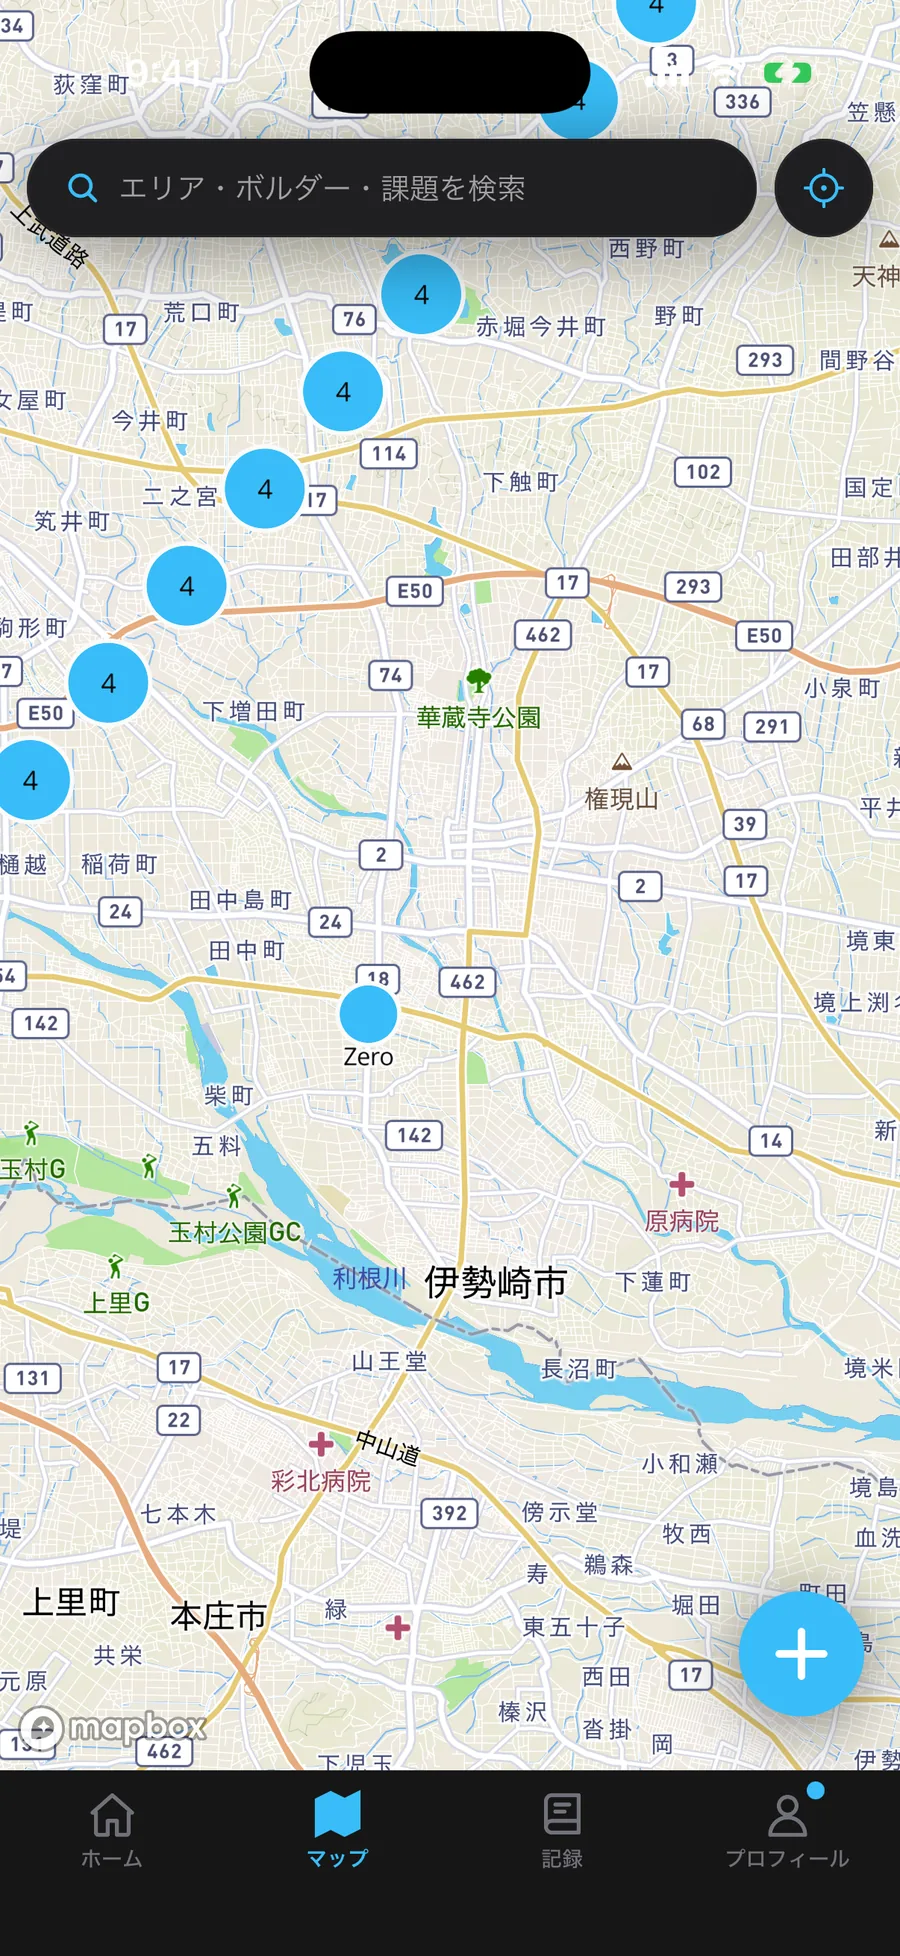
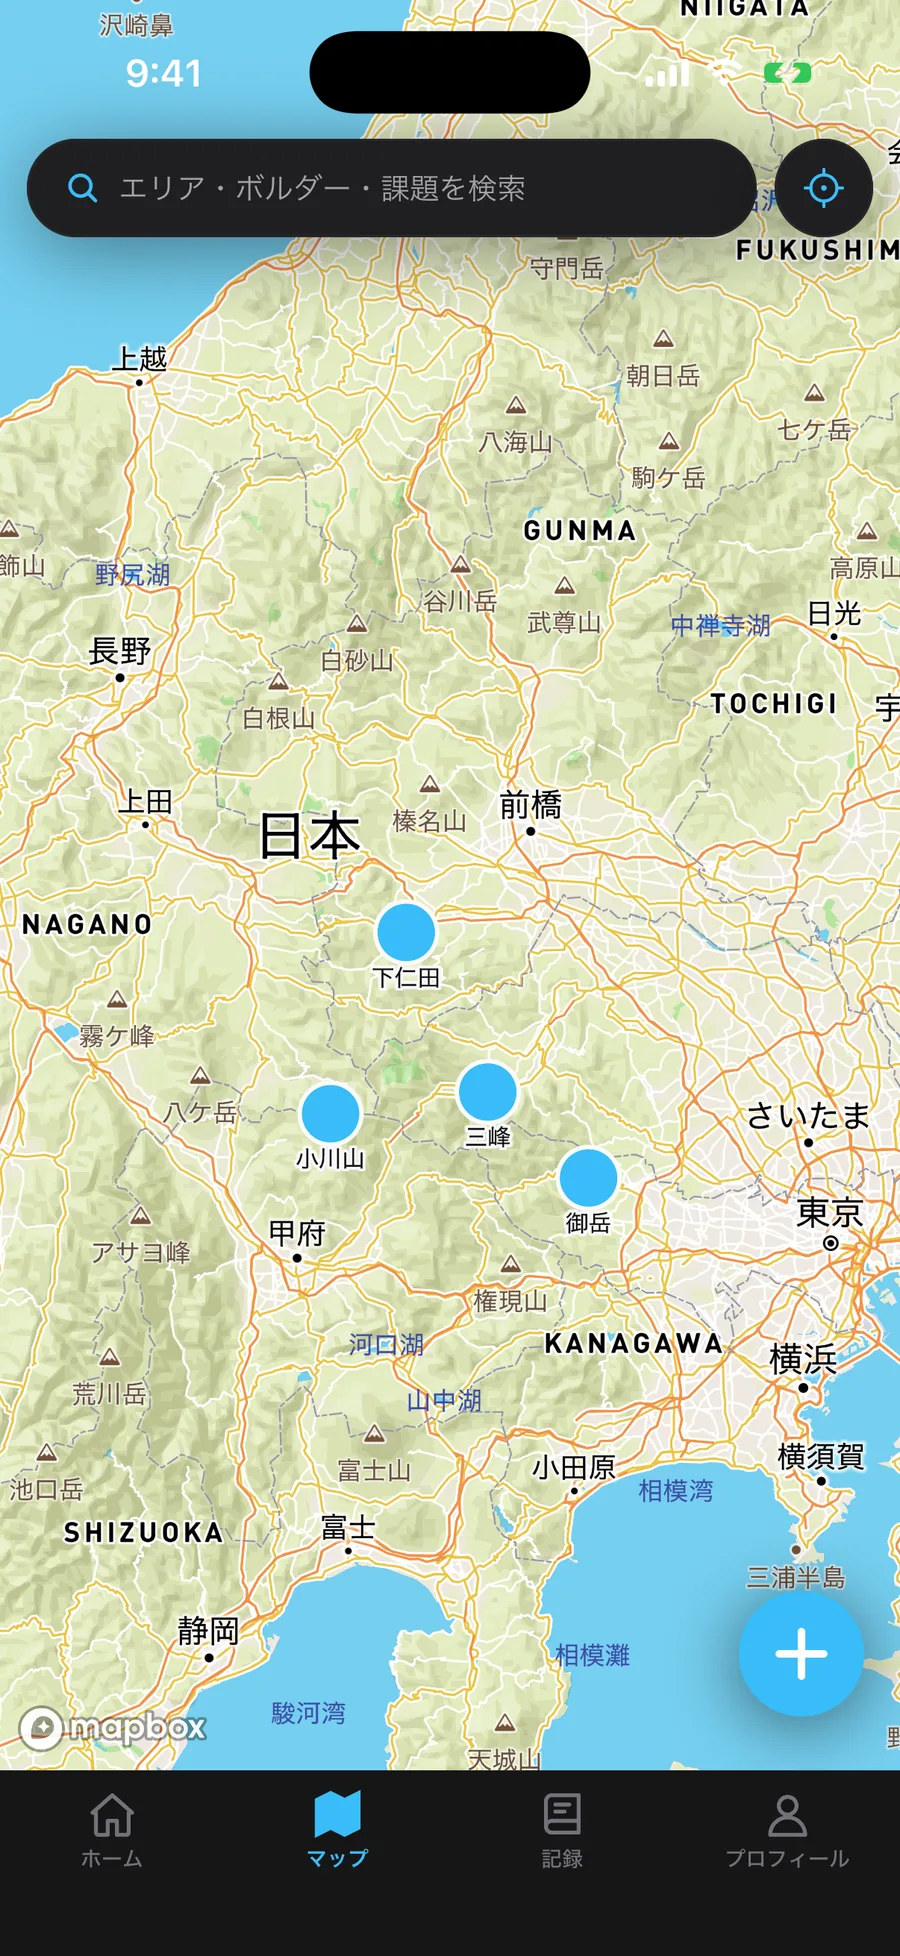
v2: map screen from the production app showing the four public crags (owner request)

diff --git a/v2/index-b.html b/v2/index-b.html
@@ -152,7 +152,7 @@
             <img src="assets/img/screen-log.webp" data-src-en="assets/img/screen-log.webp" data-src-ja="assets/img/screen-log-ja.webp" alt="" width="900" height="1956" loading="lazy" decoding="async">
           </div>
         </div>
-        <p class="mono phone-note" data-en="Screens from the test build" data-ja="テスト環境の画面です"></p>
+        <p class="mono phone-note" data-en="Screens from the app. Lines and Log show test data." data-ja="アプリの画面です。ラインと記録はテストデータ。"></p>
       </div>
     </div>
   </div>

diff --git a/v2/index.html b/v2/index.html
@@ -152,7 +152,7 @@
             <img src="assets/img/screen-log.webp" data-src-en="assets/img/screen-log.webp" data-src-ja="assets/img/screen-log-ja.webp" alt="" width="900" height="1956" loading="lazy" decoding="async">
           </div>
         </div>
-        <p class="mono phone-note" data-en="Screens from the test build" data-ja="テスト環境の画面です"></p>
+        <p class="mono phone-note" data-en="Screens from the app. Lines and Log show test data." data-ja="アプリの画面です。ラインと記録はテストデータ。"></p>
       </div>
     </div>
   </div>

diff --git a/v2/sections/phone.html b/v2/sections/phone.html
@@ -44,7 +44,7 @@
             <img src="assets/img/screen-log.webp" data-src-en="assets/img/screen-log.webp" data-src-ja="assets/img/screen-log-ja.webp" alt="" width="900" height="1956" loading="lazy" decoding="async">
           </div>
         </div>
-        <p class="mono phone-note" data-en="Screens from the test build" data-ja="テスト環境の画面です"></p>
+        <p class="mono phone-note" data-en="Screens from the app. Lines and Log show test data." data-ja="アプリの画面です。ラインと記録はテストデータ。"></p>
       </div>
     </div>
   </div>
